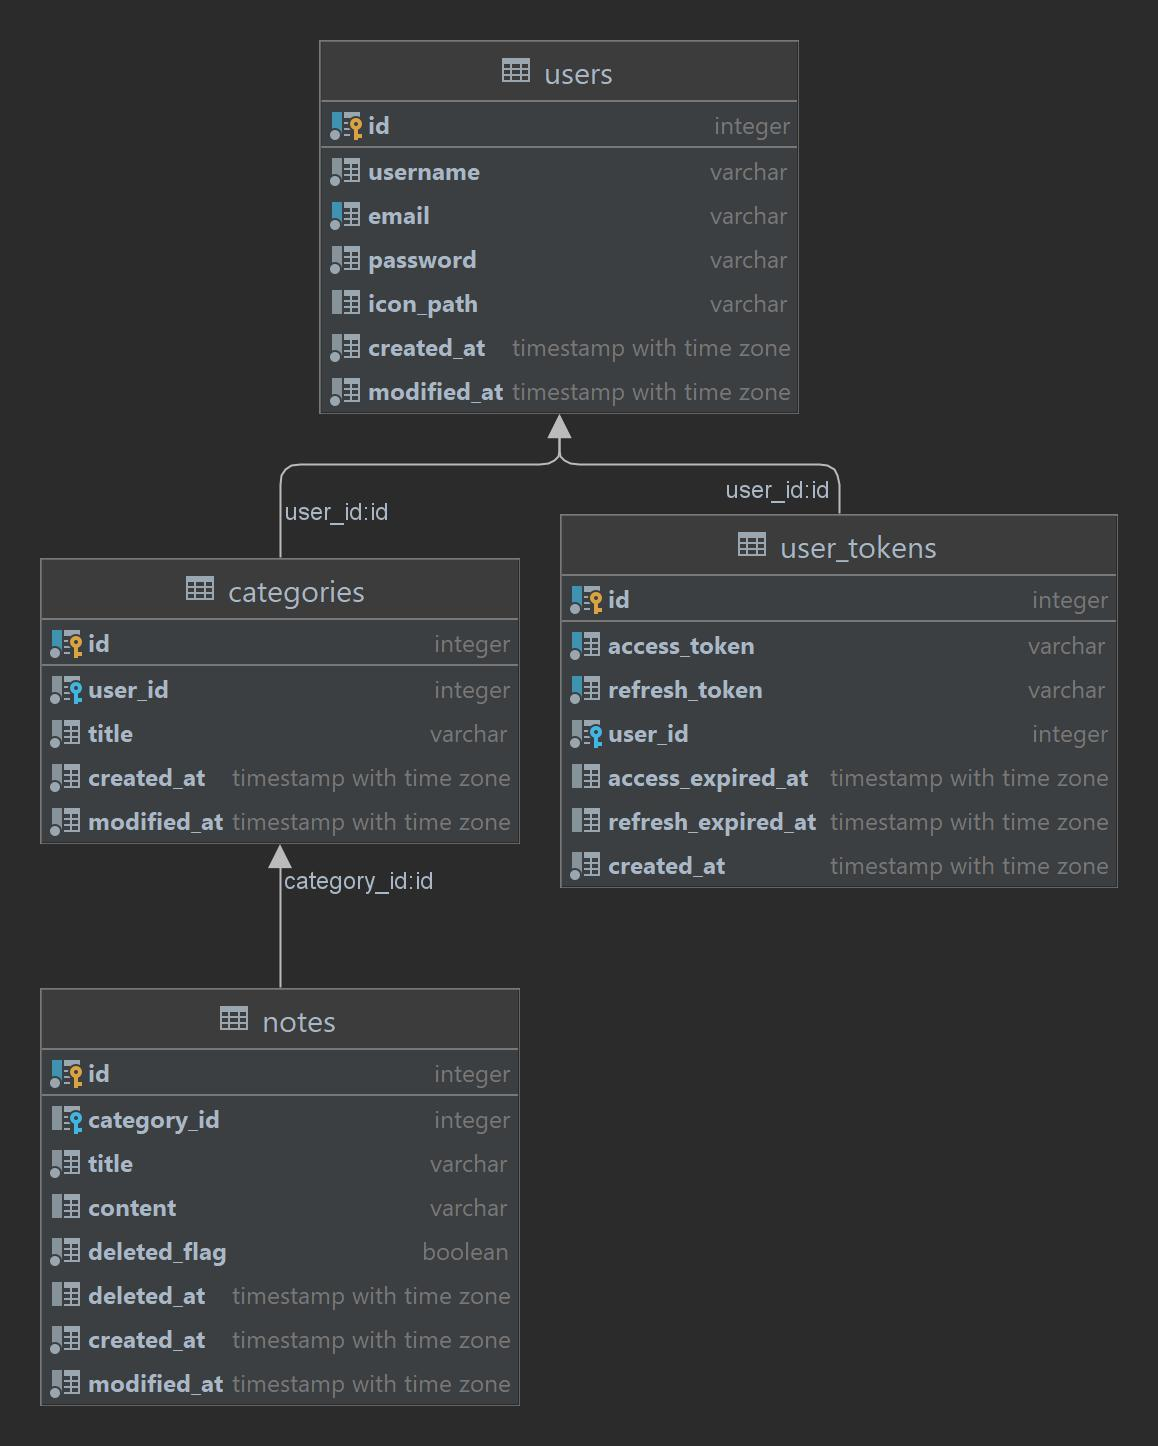
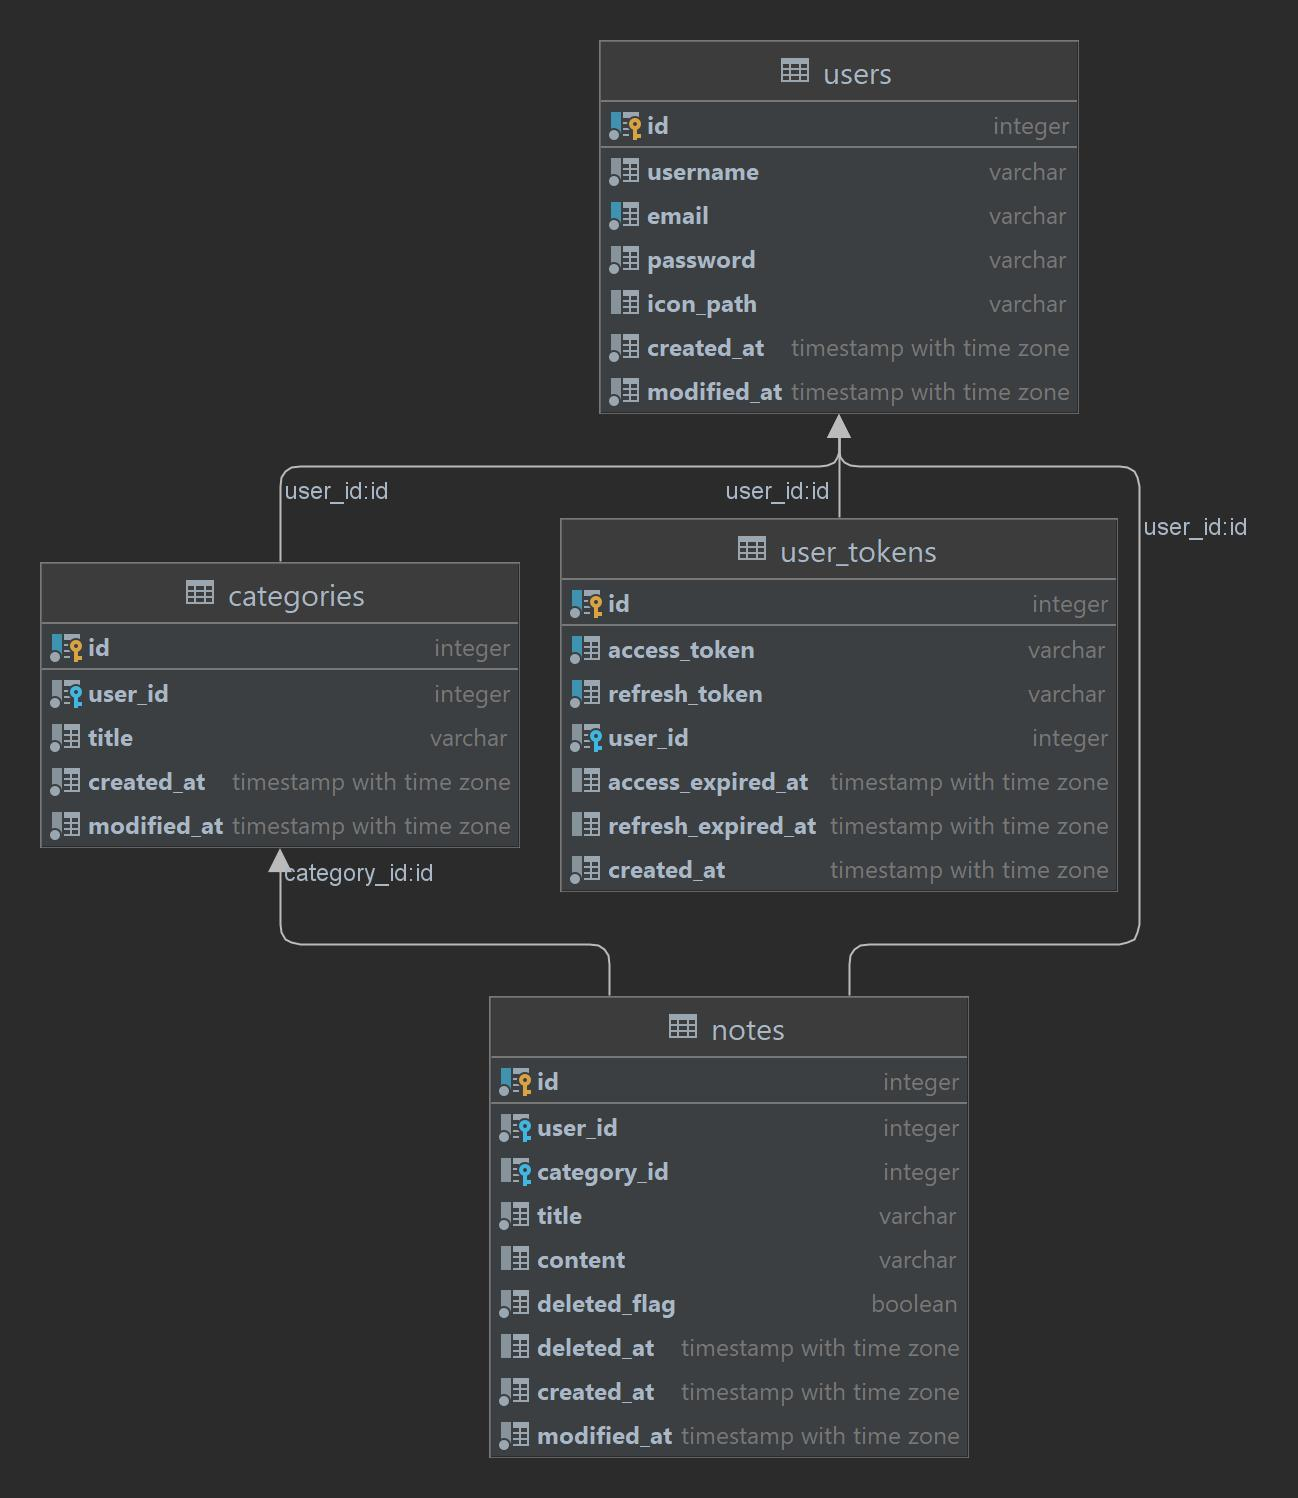
implemented authentication

Changed region(s): [[0.0311, 0.0311, 0.9637, 0.7158], [0.0311, 0.6535, 0.7461, 0.9647], [0.4974, 0.6535, 0.6218, 0.7158]]

diff --git a/src/main/java/com/andrbezr2016/mynotes/services/AuthService.java b/src/main/java/com/andrbezr2016/mynotes/services/AuthService.java
@@ -2,22 +2,89 @@ package com.andrbezr2016.mynotes.services;
 
 import com.andrbezr2016.mynotes.dto.LoginRequestDto;
 import com.andrbezr2016.mynotes.dto.RegistrationRequestDto;
-import com.andrbezr2016.mynotes.dto.UserDto;
 import com.andrbezr2016.mynotes.dto.UserTokenDto;
+import com.andrbezr2016.mynotes.entities.User;
+import com.andrbezr2016.mynotes.entities.UserToken;
+import com.andrbezr2016.mynotes.exceptions.MyNotesAppException;
+import com.andrbezr2016.mynotes.repositories.UserRepository;
+import com.andrbezr2016.mynotes.repositories.UserTokenRepository;
+import lombok.RequiredArgsConstructor;
+import org.apache.commons.codec.digest.DigestUtils;
 import org.springframework.stereotype.Service;
 
+import java.time.OffsetDateTime;
+import java.util.UUID;
+
+import static com.andrbezr2016.mynotes.constants.ApiConstants.*;
+
+@RequiredArgsConstructor
 @Service
 public class AuthService {
 
+    private final UserRepository userRepository;
+    private final UserTokenRepository userTokenRepository;
+
     public UserTokenDto login(LoginRequestDto loginRequestDto) {
-        return null;
+        User user = userRepository.findByEmail(loginRequestDto.getEmail());
+        if (user != null && loginRequestDto.getPassword().equals(user.getPassword())) {
+            return genUserToken(user.getId());
+        } else {
+            throw new MyNotesAppException(EXCEPTION_INVALID_USER);
+        }
     }
 
-    public UserDto register(RegistrationRequestDto registrationRequestDto) {
-        return null;
+    public void register(RegistrationRequestDto registrationRequestDto) {
+        boolean isTrue = userRepository.existsByEmail(registrationRequestDto.getEmail());
+        if (!isTrue) {
+            OffsetDateTime currentTime = OffsetDateTime.now();
+            userRepository.save(User.builder()
+                    .username(registrationRequestDto.getUsername())
+                    .email(registrationRequestDto.getEmail())
+                    .password(registrationRequestDto.getPassword())
+                    .createdAt(currentTime)
+                    .modifiedAt(currentTime)
+                    .build());
+        } else {
+            throw new MyNotesAppException(EXCEPTION_EXISTING_USER);
+        }
     }
 
     public UserTokenDto requestToken(String refreshToken) {
-        return null;
+        UserToken userToken = userTokenRepository.findByRefreshToken(refreshToken);
+        if (userToken != null && userToken.getRefreshExpiredAt().isAfter(OffsetDateTime.now())) {
+            return genUserToken(userToken.getUserId());
+        } else {
+            throw new MyNotesAppException(EXCEPTION_INVALID_TOKEN);
+        }
+    }
+
+    public void logout() {
+    }
+
+    private UserTokenDto genUserToken(long userId) {
+        String accessToken;
+        String refreshToken;
+        do {
+            accessToken = DigestUtils.sha256Hex(UUID.randomUUID().toString());
+            refreshToken = DigestUtils.sha256Hex(UUID.randomUUID().toString());
+        } while (userTokenRepository.existsByAccessTokenOrRefreshToken(accessToken, refreshToken));
+        OffsetDateTime currentTime = OffsetDateTime.now();
+        UserToken userToken = UserToken.builder()
+                .accessToken(accessToken)
+                .refreshToken(refreshToken)
+                .userId(userId)
+                .accessExpiredAt(currentTime.plusMinutes(ACCESS_EXPIRED_IN_MINUTES))
+                .refreshExpiredAt(currentTime.plusMinutes(REFRESH_EXPIRED_IN_MINUTES))
+                .createdAt(currentTime)
+                .build();
+        userTokenRepository.save(userToken);
+        return UserTokenDto.builder()
+                .accessToken(userToken.getAccessToken())
+                .refreshToken(userToken.getRefreshToken())
+                .userId(userToken.getUserId())
+                .accessExpiredAt(userToken.getAccessExpiredAt())
+                .refreshExpiredAt(userToken.getRefreshExpiredAt())
+                .createdAt(userToken.getCreatedAt())
+                .build();
     }
 }

diff --git a/src/main/java/com/andrbezr2016/mynotes/controllers/AuthController.java b/src/main/java/com/andrbezr2016/mynotes/controllers/AuthController.java
@@ -2,7 +2,6 @@ package com.andrbezr2016.mynotes.controllers;
 
 import com.andrbezr2016.mynotes.dto.LoginRequestDto;
 import com.andrbezr2016.mynotes.dto.RegistrationRequestDto;
-import com.andrbezr2016.mynotes.dto.UserDto;
 import com.andrbezr2016.mynotes.dto.UserTokenDto;
 import com.andrbezr2016.mynotes.services.AuthService;
 import lombok.RequiredArgsConstructor;
@@ -23,12 +22,17 @@ public class AuthController {
     }
 
     @PostMapping("/registration")
-    public UserDto register(@RequestBody RegistrationRequestDto registrationRequestDto) {
-        return authService.register(registrationRequestDto);
+    public void register(@RequestBody RegistrationRequestDto registrationRequestDto) {
+        authService.register(registrationRequestDto);
     }
 
     @GetMapping("/token")
     public UserTokenDto requestToken(@RequestParam String refreshToken) {
         return authService.requestToken(refreshToken);
+    }
+
+    @PostMapping("/logout")
+    public void logout() {
+        authService.logout();
     }
 }

diff --git a/src/main/java/com/andrbezr2016/mynotes/constants/ApiConstants.java b/src/main/java/com/andrbezr2016/mynotes/constants/ApiConstants.java
@@ -1,12 +1,16 @@
 package com.andrbezr2016.mynotes.constants;
 
-public final class ApiConstants {
+public interface ApiConstants {
 
-    public static final String API_AUTH_PATH = "/auth";
-    public static final String API_USER_PATH = "/user";
-    public static final String API_CATEGORIES_PATH = "/categories";
-    public static final String API_NOTES_PATH = "/notes";
+    String API_AUTH_PATH = "/auth";
+    String API_USER_PATH = "/user";
+    String API_CATEGORIES_PATH = "/categories";
+    String API_NOTES_PATH = "/notes";
 
-    private ApiConstants() {
-    }
+    String EXCEPTION_INVALID_USER = "Invalid email or password";
+    String EXCEPTION_EXISTING_USER = "User already exists";
+    String EXCEPTION_INVALID_TOKEN = "Invalid refresh token";
+
+    int ACCESS_EXPIRED_IN_MINUTES = 60;
+    int REFRESH_EXPIRED_IN_MINUTES = 1440;
 }

diff --git a/src/main/java/com/andrbezr2016/mynotes/controllers/UserController.java b/src/main/java/com/andrbezr2016/mynotes/controllers/UserController.java
@@ -5,6 +5,7 @@ import com.andrbezr2016.mynotes.dto.UserEditRequestDto;
 import com.andrbezr2016.mynotes.services.UserService;
 import lombok.RequiredArgsConstructor;
 import org.springframework.web.bind.annotation.*;
+import org.springframework.web.multipart.MultipartFile;
 
 import static com.andrbezr2016.mynotes.constants.ApiConstants.API_USER_PATH;
 
@@ -21,7 +22,7 @@ public class UserController {
     }
 
     @PatchMapping
-    public UserDto editCurrentUser(@RequestBody UserEditRequestDto userEditRequestDto) {
-        return userService.editCurrentUser(userEditRequestDto);
+    public UserDto editCurrentUser(@RequestPart UserEditRequestDto userEditRequestDto, @RequestPart(required = false) MultipartFile icon) {
+        return userService.editCurrentUser(userEditRequestDto, icon);
     }
 }

diff --git a/src/main/java/com/andrbezr2016/mynotes/errors/MyNotesAppExceptionHandler.java b/src/main/java/com/andrbezr2016/mynotes/errors/MyNotesAppExceptionHandler.java
@@ -1,0 +1,17 @@
+package com.andrbezr2016.mynotes.errors;
+
+import com.andrbezr2016.mynotes.dto.ErrorDto;
+import com.andrbezr2016.mynotes.exceptions.MyNotesAppException;
+import org.springframework.http.HttpStatus;
+import org.springframework.http.ResponseEntity;
+import org.springframework.web.bind.annotation.ControllerAdvice;
+import org.springframework.web.bind.annotation.ExceptionHandler;
+
+@ControllerAdvice
+public class MyNotesAppExceptionHandler {
+
+    @ExceptionHandler(MyNotesAppException.class)
+    public ResponseEntity<ErrorDto> handleException(MyNotesAppException exception) {
+        return new ResponseEntity<>(ErrorDto.builder().message(exception.getMessage()).build(), HttpStatus.BAD_REQUEST);
+    }
+}

diff --git a/src/main/java/com/andrbezr2016/mynotes/services/UserService.java b/src/main/java/com/andrbezr2016/mynotes/services/UserService.java
@@ -3,6 +3,7 @@ package com.andrbezr2016.mynotes.services;
 import com.andrbezr2016.mynotes.dto.UserDto;
 import com.andrbezr2016.mynotes.dto.UserEditRequestDto;
 import org.springframework.stereotype.Service;
+import org.springframework.web.multipart.MultipartFile;
 
 @Service
 public class UserService {
@@ -11,7 +12,7 @@ public class UserService {
         return null;
     }
 
-    public UserDto editCurrentUser(UserEditRequestDto user) {
+    public UserDto editCurrentUser(UserEditRequestDto user, MultipartFile icon) {
         return null;
     }
 }

diff --git a/src/main/java/com/andrbezr2016/mynotes/repositories/UserTokenRepository.java b/src/main/java/com/andrbezr2016/mynotes/repositories/UserTokenRepository.java
@@ -1,0 +1,13 @@
+package com.andrbezr2016.mynotes.repositories;
+
+import com.andrbezr2016.mynotes.entities.UserToken;
+import org.springframework.data.jpa.repository.JpaRepository;
+
+public interface UserTokenRepository extends JpaRepository<UserToken, Long> {
+
+    UserToken findByAccessToken(String accessToken);
+
+    UserToken findByRefreshToken(String refreshToken);
+
+    boolean existsByAccessTokenOrRefreshToken(String accessToken, String refreshToken);
+}

diff --git a/src/main/java/com/andrbezr2016/mynotes/dto/RegistrationRequestDto.java b/src/main/java/com/andrbezr2016/mynotes/dto/RegistrationRequestDto.java
@@ -1,8 +1,10 @@
 package com.andrbezr2016.mynotes.dto;
 
+import lombok.Builder;
 import lombok.Data;
 
 @Data
+@Builder
 public class RegistrationRequestDto {
 
     private String username;
@@ -10,6 +12,4 @@ public class RegistrationRequestDto {
     private String email;
 
     private String password;
-
-    private String iconPath;
 }

diff --git a/src/main/java/com/andrbezr2016/mynotes/repositories/UserRepository.java b/src/main/java/com/andrbezr2016/mynotes/repositories/UserRepository.java
@@ -1,0 +1,11 @@
+package com.andrbezr2016.mynotes.repositories;
+
+import com.andrbezr2016.mynotes.entities.User;
+import org.springframework.data.jpa.repository.JpaRepository;
+
+public interface UserRepository extends JpaRepository<User, Long> {
+
+    User findByEmail(String email);
+
+    boolean existsByEmail(String email);
+}

diff --git a/src/main/java/com/andrbezr2016/mynotes/entities/UserToken.java b/src/main/java/com/andrbezr2016/mynotes/entities/UserToken.java
@@ -1,11 +1,15 @@
 package com.andrbezr2016.mynotes.entities;
 
-import lombok.Data;
+import lombok.*;
 
 import javax.persistence.*;
 import java.time.OffsetDateTime;
 
-@Data
+@Getter
+@Setter
+@NoArgsConstructor
+@AllArgsConstructor
+@Builder
 @Entity
 @Table(name = "user_tokens")
 public class UserToken {

diff --git a/src/main/java/com/andrbezr2016/mynotes/entities/Category.java b/src/main/java/com/andrbezr2016/mynotes/entities/Category.java
@@ -1,11 +1,15 @@
 package com.andrbezr2016.mynotes.entities;
 
-import lombok.Data;
+import lombok.*;
 
 import javax.persistence.*;
 import java.time.OffsetDateTime;
 
-@Data
+@Getter
+@Setter
+@NoArgsConstructor
+@AllArgsConstructor
+@Builder
 @Entity
 @Table(name = "categories")
 public class Category {

diff --git a/src/main/java/com/andrbezr2016/mynotes/entities/Note.java b/src/main/java/com/andrbezr2016/mynotes/entities/Note.java
@@ -1,11 +1,15 @@
 package com.andrbezr2016.mynotes.entities;
 
-import lombok.Data;
+import lombok.*;
 
 import javax.persistence.*;
 import java.time.OffsetDateTime;
 
-@Data
+@Getter
+@Setter
+@NoArgsConstructor
+@AllArgsConstructor
+@Builder
 @Entity
 @Table(name = "notes")
 public class Note {
